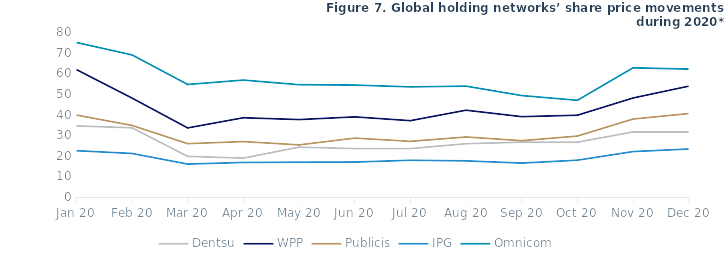
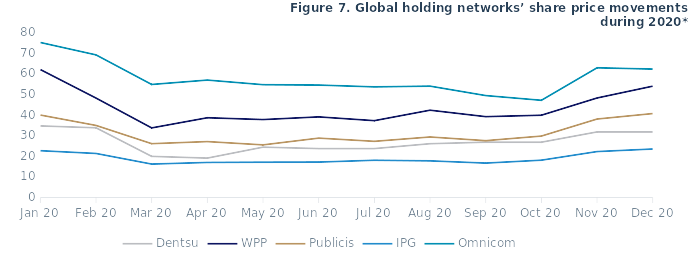
Changes content

diff --git a/themes/ciesco-hugo/layouts/index.html b/themes/ciesco-hugo/layouts/index.html
@@ -1,4 +1,4 @@
- <!DOCTYPE html>
+ <!-- <!DOCTYPE html>
 <html lang="en">
         {{ partial "head.html" . }}
     <body>
@@ -45,4 +45,4 @@
             </div>
           </div>
         </body>
-</html> 
+</html>  -->

diff --git a/themes/ciesco-hugo/layouts/_default/single.html b/themes/ciesco-hugo/layouts/_default/single.html
@@ -1,4 +1,4 @@
-{{ define "main" }}
+<!-- {{ define "main" }}
 
 </div>
 
@@ -42,4 +42,4 @@
 
 
 </main>
-{{ end }}
+{{ end }} -->

diff --git a/content/buyer-landscape.md b/content/buyer-landscape.md
@@ -39,7 +39,7 @@ S4 Capital, the acquisition vehicle of Sir Martin Sorrell, made a few headlines 
 
 # Global holding networks
 
-{{< container-image path="images/global-holding-networks-6.png" method="Fit" options="1250x600 png q100 Smart" alt="global-holding-networks" >}}
+{{< container-image path="images/global-holding-networks-6.png" method="Fit" options="1250x900 png q100 Smart" alt="global-holding-networks" >}}
 </br>
 </br>
 {{< row >}}
@@ -86,10 +86,12 @@ Some highlights in 2020 included **Dentsu** acquiring Santa Clara based **E-Nor*
 
 {{< /row >}}
 
-
+{{< row >}}
 # Consultancies
+{{< /row >}}
 
-{{< container-image path="images/consultancies.png" method="Fit" options="700x536 png q100 Smart" alt="global-holding-networks" >}}
+{{< container-image path="images/consultancies.png" method="Fit" options="1250x900 png q100 Smart" alt="global-holding-networks" >}}
+
 </br>
 </br>
 
